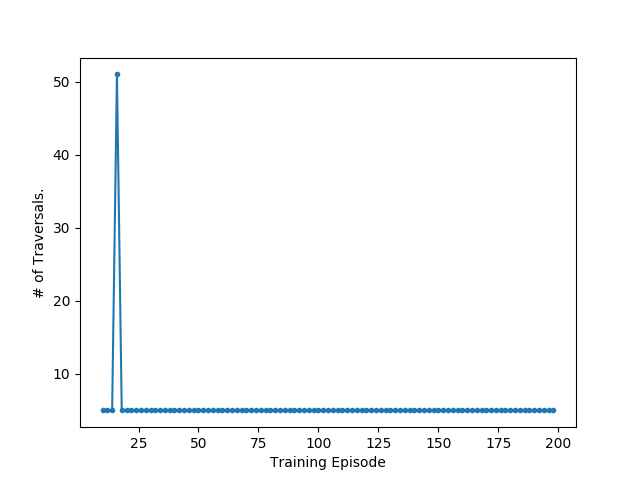
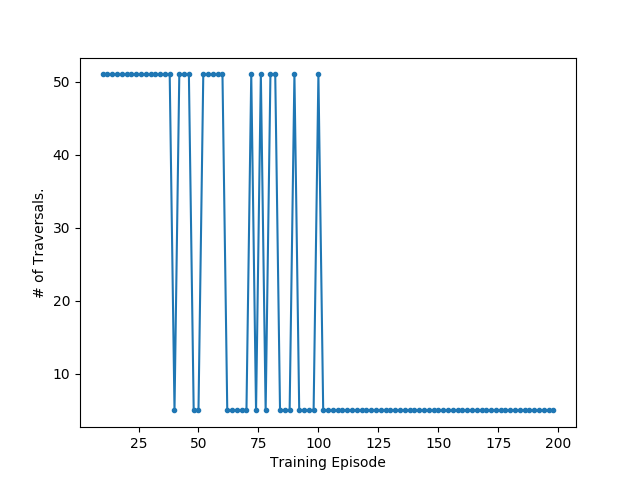
new results

Changed region(s): [[0.1562, 0.125, 0.5312, 0.875]]

diff --git a/Q-learning.py b/Q-learning.py
@@ -140,12 +140,11 @@ def learn_Q(R, gamma = 0.8, alpha = 0.0, numEpisodes = 0):
     episodes = 0
     
     while episodes < numEpisodes:
-        if currentState == goalState:
-            episodes += 1
         legalActions = getLegalActions(currentState, R)
         actionSelected = random.choice(legalActions)
         Q[currentState, actionSelected] = Q[currentState, actionSelected] + alpha * (R[currentState, actionSelected] + gamma*(Q[actionSelected].max() - Q[currentState, actionSelected]))
         currentState = actionSelected
+        episodes += 1
         
     return Q
 
@@ -193,7 +192,7 @@ FOOTER: Save program output here:
 ==alpha = 0.1== 
 The best possible order to wear clothes is:
 
-RRRR -> RRFR -> RRFF -> URFF -> UUFF
+RRRR -> URRR -> URFR -> UUFR -> UUFF
 
 ==alpha = 0.5==
 The best possible order to wear clothes is:
@@ -203,10 +202,10 @@ RRRR -> URRR -> UURR -> UUFR -> UUFF
 ==alpha = 0.8==
 The best possible order to wear clothes is:
 
-RRRR -> URRR -> UURR -> UUFR -> UUFF
+RRRR -> URRR -> URFR -> UUFR -> UUFF
 
 ==alpha = 1==
 The best possible order to wear clothes is:
 
-RRRR -> RRFR -> URFR -> URFF -> UUFF
+RRRR -> URRR -> URFR -> UUFR -> UUFF
 '''
